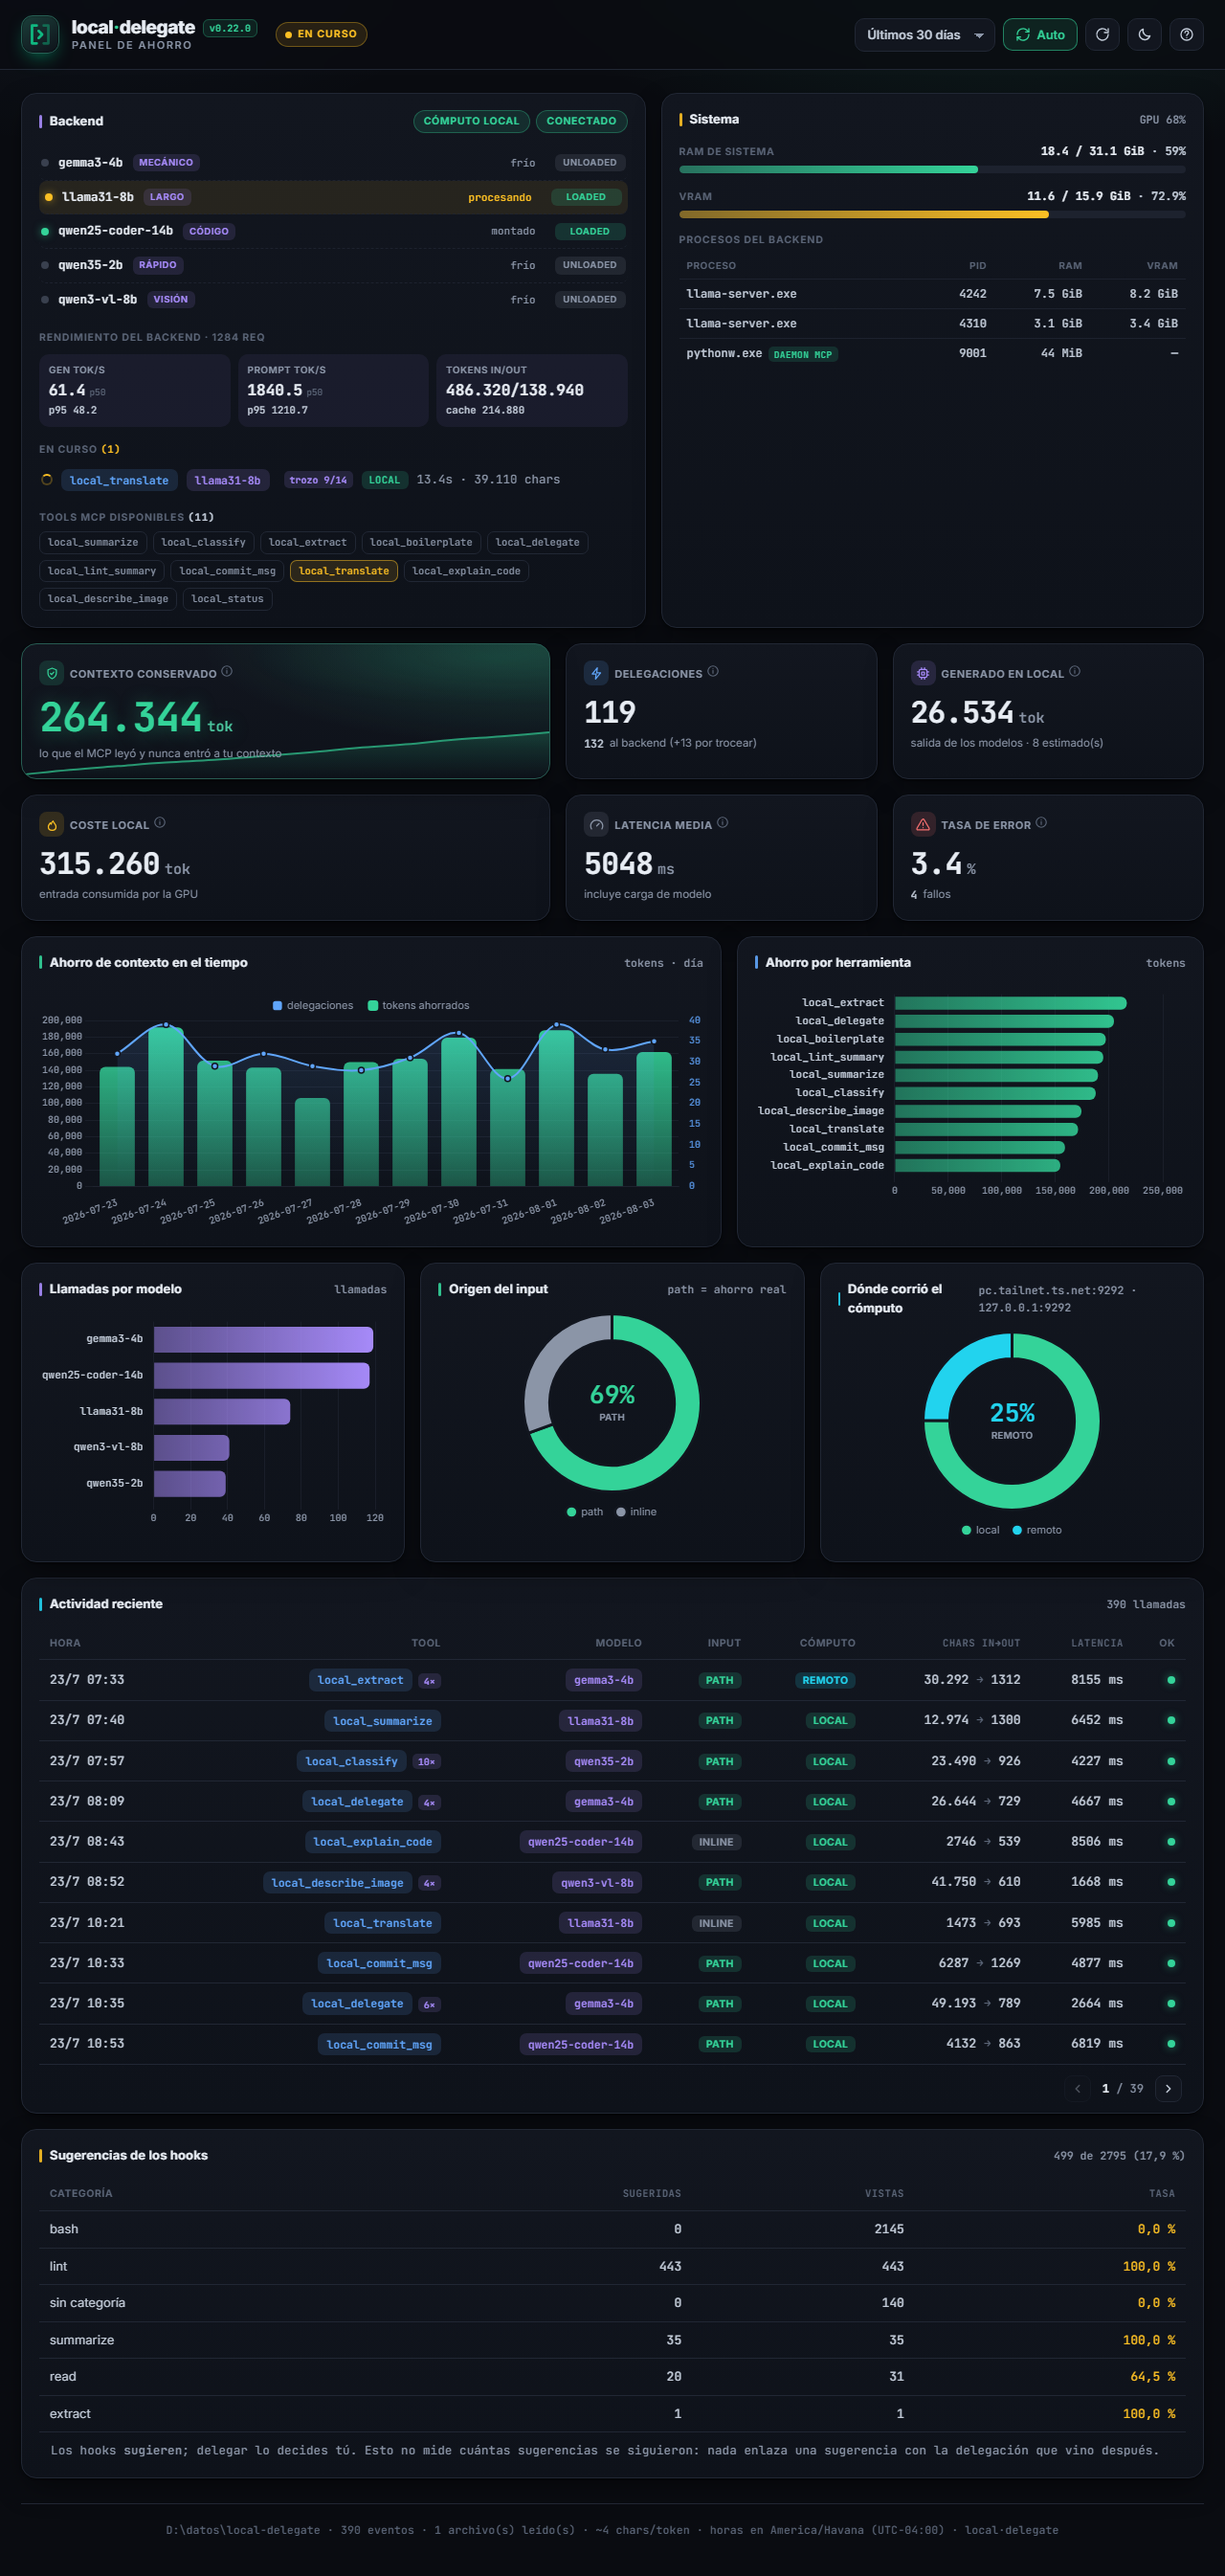
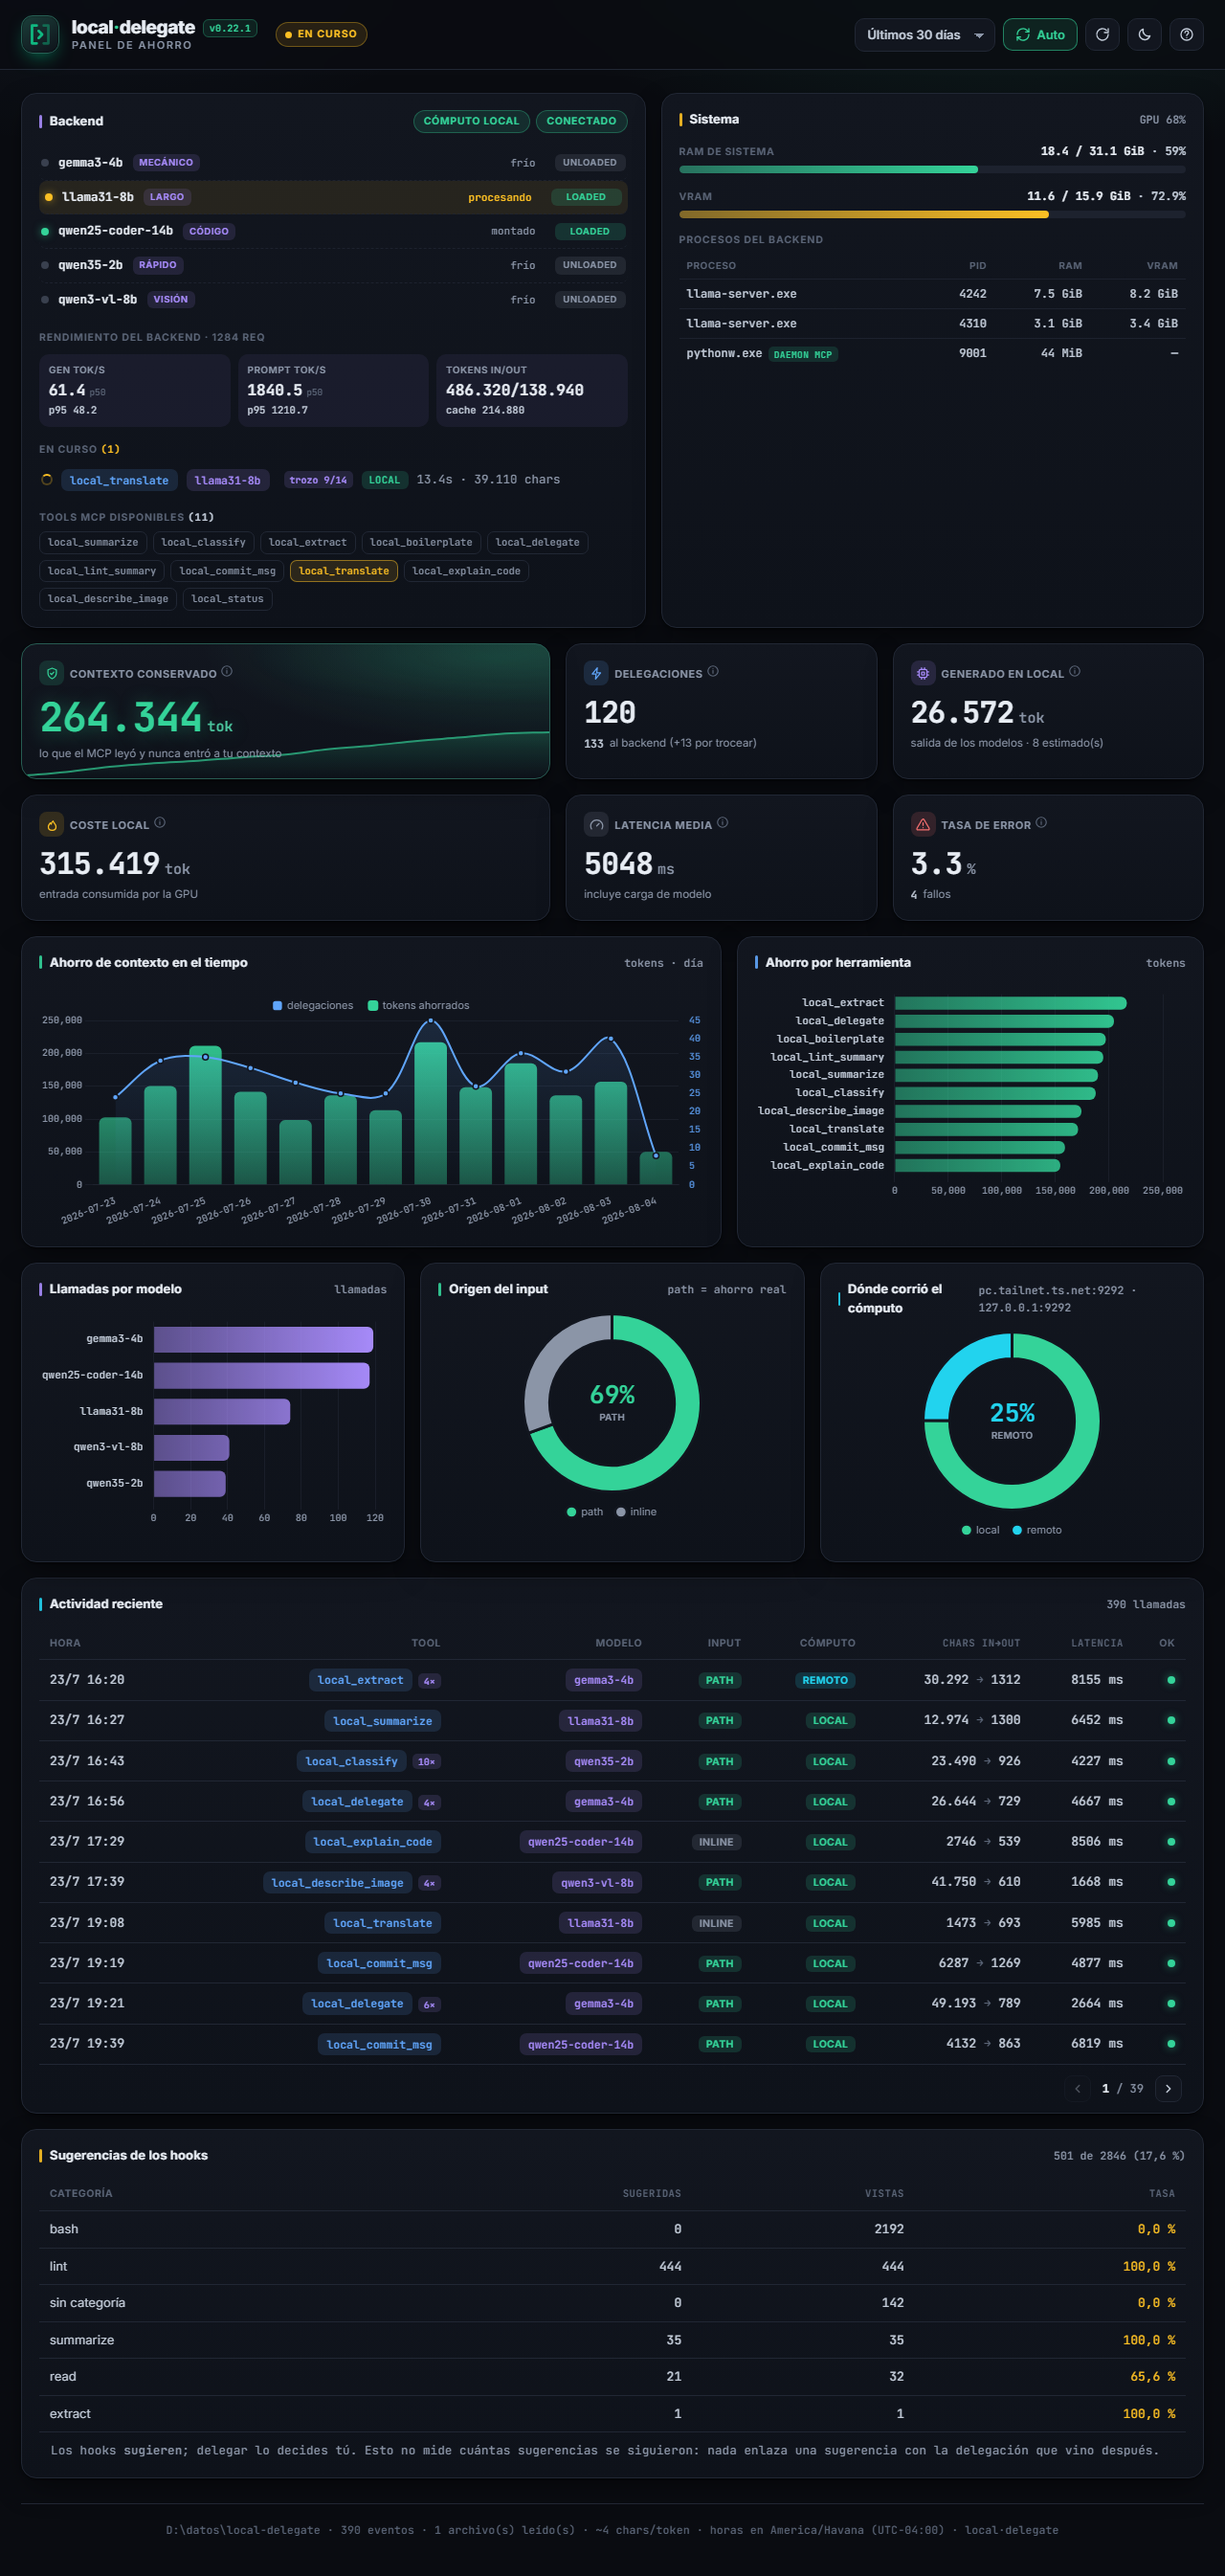
chore(release): 0.22.1
Seis actualizaciones de Dependabot, sin cambios de codigo propio: fastapi
0.140.7 -> 0.141.1, uvicorn 0.51.0 -> 0.52.0, filelock 3.32.0 -> 3.32.2 y ruff
0.16.0 -> 0.16.1 en el grupo de desarrollo. Las cuatro caen dentro de los rangos
ya declarados y ninguna obligo a tocar pyproject.toml.

Las dos actions de Pages suben de major (v4 -> v5). Se comprobo antes de
mezclarlas que el action.yml de la v5 conserva lo que usa el workflow -el input
`path` y el output `page_url`-: el major solo mueve el runtime (deploy-pages a
node24, upload-pages-artifact a upload-artifact v7 por dentro).

La captura del README se regenera porque el badge del header lleva la version, y
la escribe el script que captura contra el repo, no el bump.

Changed region(s): [[0.0312, 0.3746, 0.5938, 0.4682], [0.0938, 0.3122, 0.125, 0.3434]]

diff --git a/CHANGELOG.md b/CHANGELOG.md
@@ -6,6 +6,22 @@ y el proyecto usa [Versionado Semántico](https://semver.org/lang/es/).
 
 ## [Unreleased]
 
+## [0.22.1] - 2026-08-03
+
+### Changed
+- **Dependencias al día.** Seis actualizaciones de Dependabot, sin cambios de código propio:
+  `fastapi` 0.140.7 → 0.141.1, `uvicorn` 0.51.0 → 0.52.0, `filelock` 3.32.0 → 3.32.2 y `ruff`
+  0.16.0 → 0.16.1 en el grupo de desarrollo. Las cuatro son bumps de minor o parche dentro de los
+  rangos ya declarados —`filelock` sigue bajo su techo `<4`— y ninguna requirió tocar
+  `pyproject.toml`.
+
+- **`actions/upload-pages-artifact` y `actions/deploy-pages`, de la v4 a la v5** en
+  `pages.yml`. Son bumps de **major**, así que se comprobó qué cambia antes de mezclarlos: el
+  `action.yml` de la v5 conserva las dos cosas de las que depende el workflow —el input `path` en
+  la primera y el output `page_url` en la segunda—, y el major solo mueve el runtime
+  (`deploy-pages` pasa a `node24`; `upload-pages-artifact` usa `upload-artifact` v7 por dentro).
+  Ninguna entrada del workflow cambia.
+
 ## [0.22.0] - 2026-08-02
 
 ### Added
@@ -1471,7 +1487,8 @@ y el proyecto usa [Versionado Semántico](https://semver.org/lang/es/).
 - Empaquetado para PyPI (`local-delegate-mcp`) ejecutable con `uvx`; `server.json` para el
   registro oficial de MCP.
 
-[Unreleased]: https://github.com/ZahiriNatZuke/local-delegate/compare/v0.22.0...HEAD
+[Unreleased]: https://github.com/ZahiriNatZuke/local-delegate/compare/v0.22.1...HEAD
+[0.22.1]: https://github.com/ZahiriNatZuke/local-delegate/compare/v0.22.0...v0.22.1
 [0.22.0]: https://github.com/ZahiriNatZuke/local-delegate/compare/v0.21.0...v0.22.0
 [0.21.0]: https://github.com/ZahiriNatZuke/local-delegate/compare/v0.20.0...v0.21.0
 [0.20.0]: https://github.com/ZahiriNatZuke/local-delegate/compare/v0.19.0...v0.20.0
